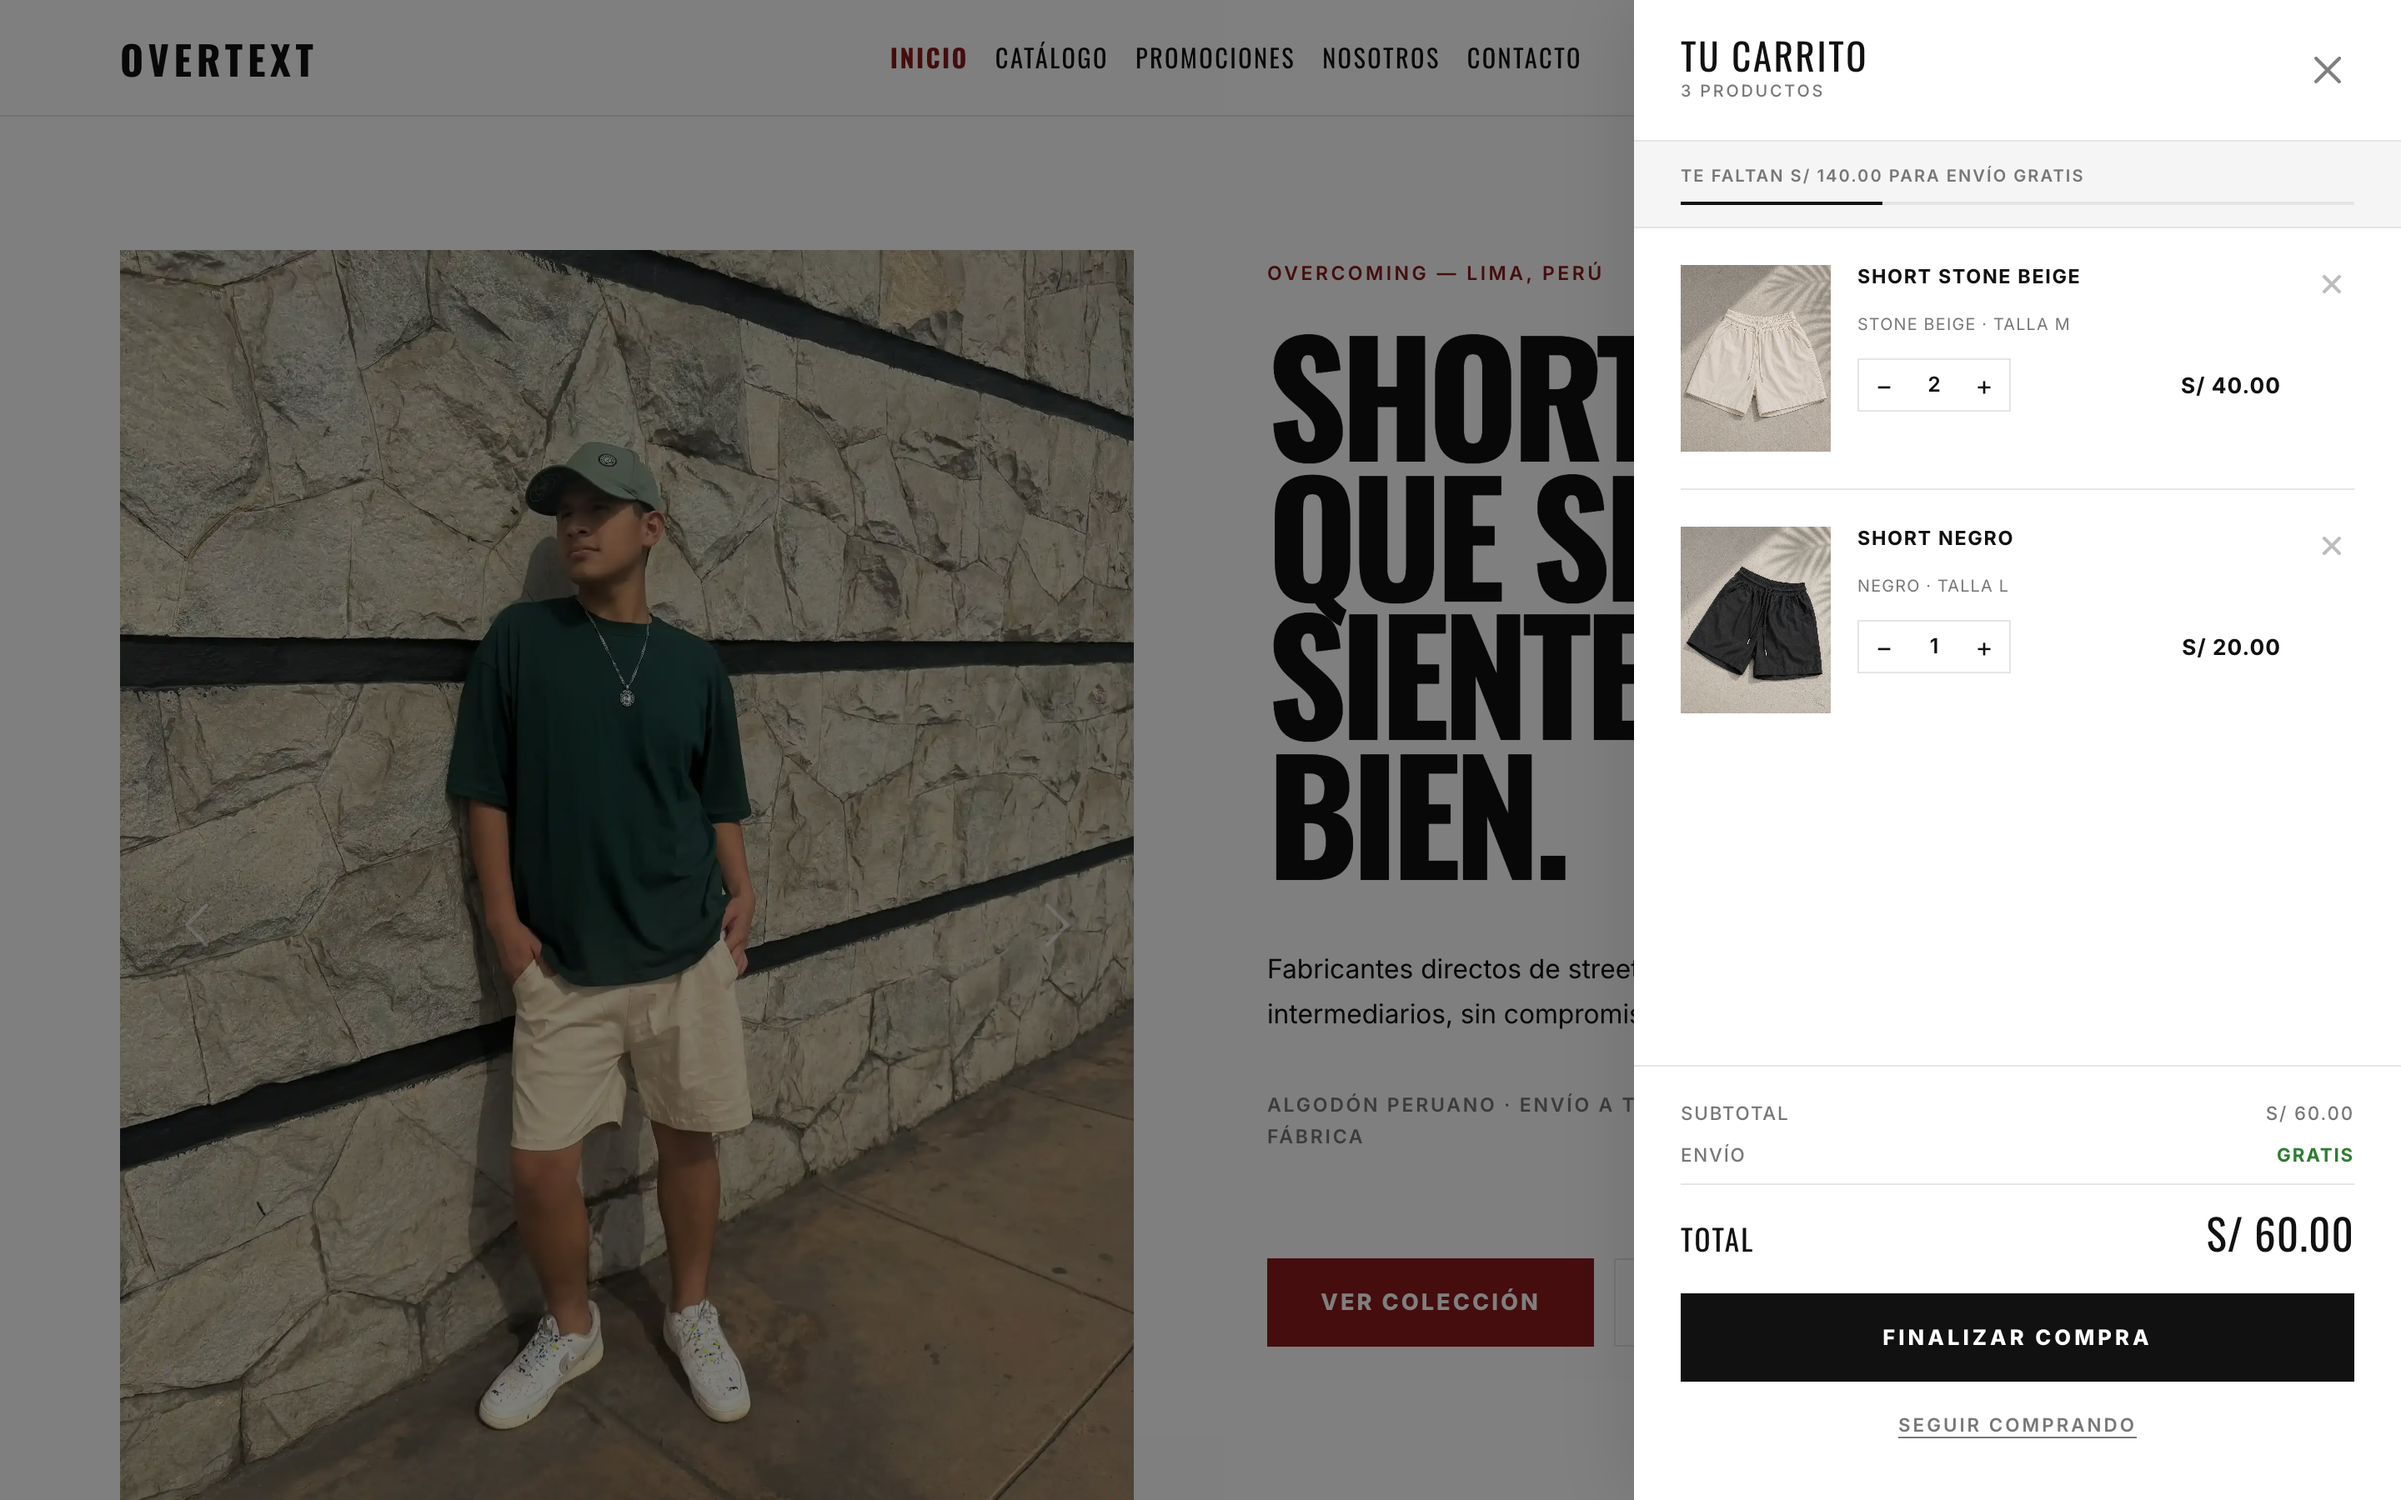
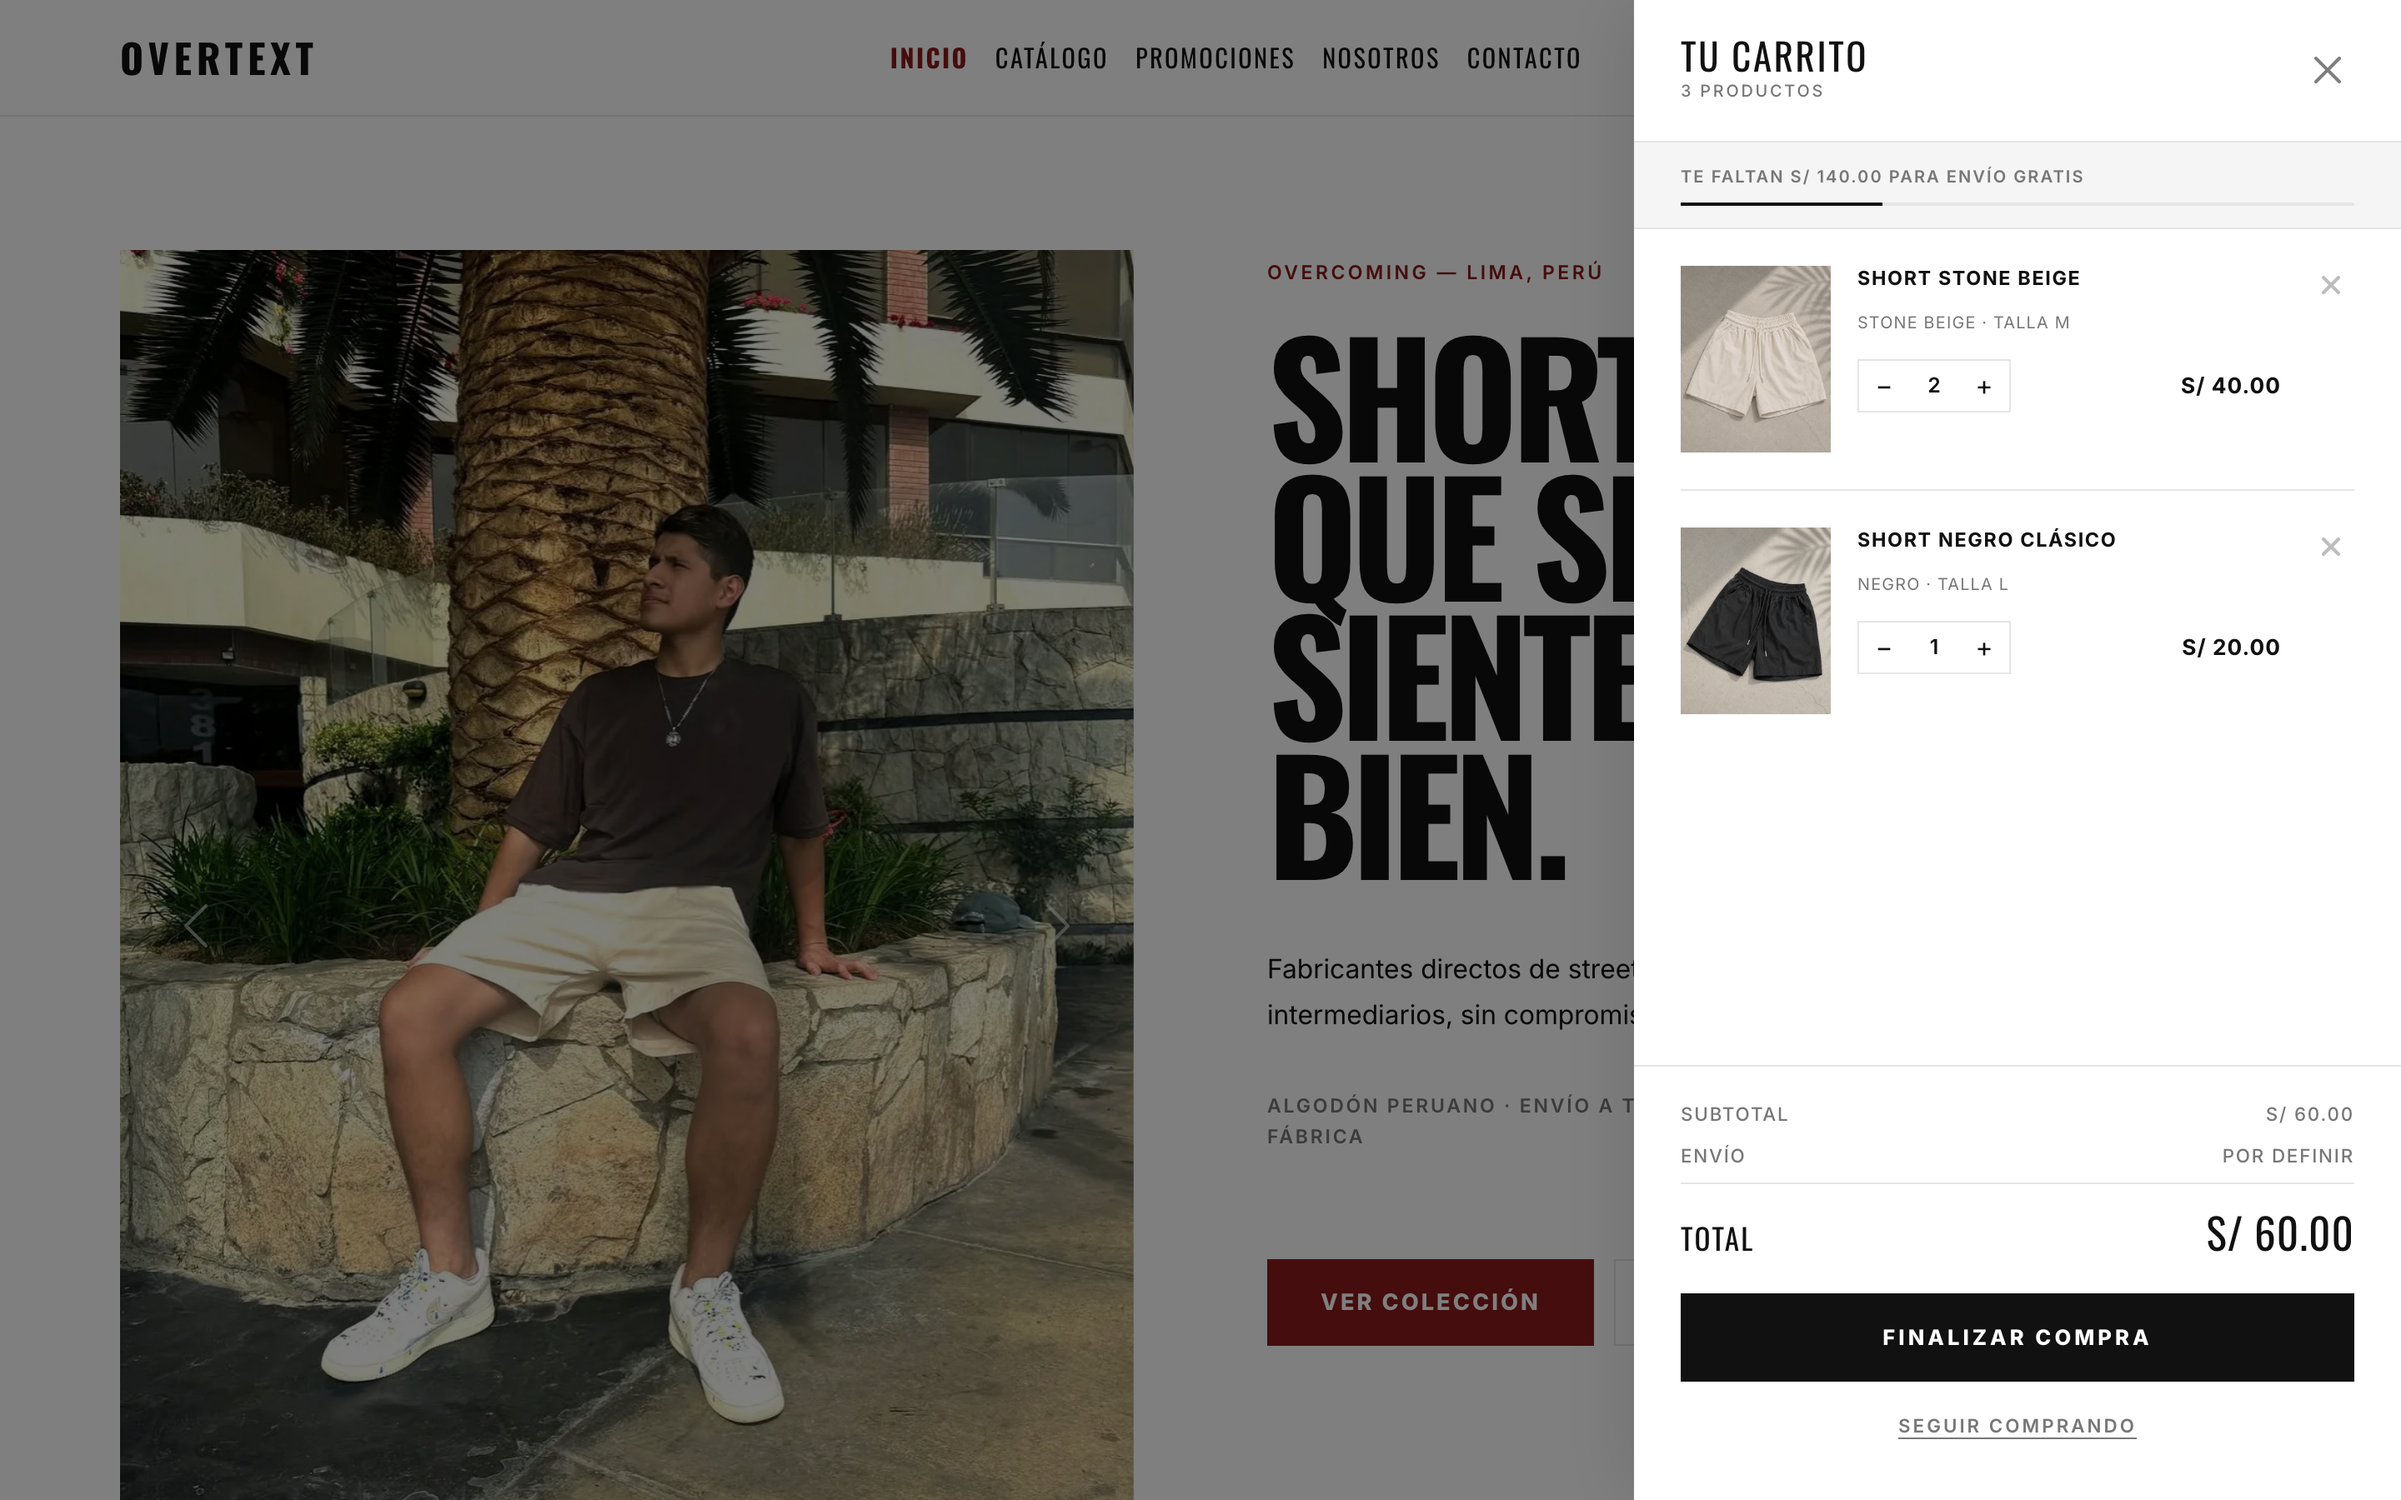
fix(carrito): cerrar D13 — la línea ENVÍO se deriva del umbral, no está quemada
El pie del panel decía "ENVÍO — GRATIS" siempre. El texto estaba escrito a
mano en el HTML de las 6 páginas con carrito y `renderizarCarrito()` no lo
tocaba, así que contradecía a la barra de progreso dos líneas más arriba:
"te faltan S/ 140 para envío gratis" junto a "el envío es gratis".

Es el mismo patrón que D4 — un dato de negocio duplicado a mano en vez de
derivarse de su única fuente (art. 7).

Ahora el `<span class="envio-gratis">` sale vacío del HTML y lo llena
`js/carrito.js` desde `UMBRAL_ENVIO_GRATIS`, el mismo valor que alimenta
la barra: **POR DEFINIR** por debajo de S/ 200 y **GRATIS** al alcanzarlo.
Sale vacío y no con un valor de relleno, por la misma razón que E1-15: un
importe escrito en el HTML parpadea antes de que el JS lo corrija.

El verde se separó a `.es-gratis`. `.envio-gratis` es el gancho fijo del
elemento y no debe significar "gratis conseguido"; es el mismo reparto que
ya hacía el checkout con `envio-gratis-tag`.

Verificado en los dos estados: S/ 60 → POR DEFINIR en gris; S/ 200 →
GRATIS en verde. Se retoman las dos capturas del offcanvas, que mostraban
el "GRATIS" viejo.

diff --git a/app-estatico/js/carrito.js b/app-estatico/js/carrito.js
@@ -133,13 +133,25 @@
             }
         }
 
-        // Totales del pie (envío se define al finalizar compra)
+        // Totales del pie (el costo exacto del envio se define al finalizar compra)
         var footer = panel.querySelector('.carrito-footer');
         if (footer) {
             var lineaSub = footer.querySelector('.resumen-linea span:last-child');
             if (lineaSub) lineaSub.textContent = formatoSoles(totales.subtotal);
             var monto = footer.querySelector('.total-monto');
             if (monto) monto.textContent = formatoSoles(totales.subtotal);
+
+            // El HTML traia "GRATIS" quemado y contradecia a la barra de arriba
+            // ("te faltan S/ 140"). Se deriva del mismo umbral, igual que el
+            // checkout, que muestra POR DEFINIR hasta saber el tipo de envio.
+            var envio = footer.querySelector('.envio-gratis');
+            if (envio) {
+                var gratis = totales.subtotal >= UMBRAL_ENVIO_GRATIS;
+                envio.textContent = gratis ? 'GRATIS' : 'POR DEFINIR';
+                // .envio-gratis es el gancho fijo del elemento; el verde lo pone
+                // .es-gratis, igual que .envio-gratis-tag en el checkout.
+                envio.classList.toggle('es-gratis', gratis);
+            }
         }
     }
 

diff --git a/app-estatico/catalogo.html b/app-estatico/catalogo.html
@@ -92,7 +92,7 @@
             </div>
             <div class="resumen-linea">
                 <span>ENVÍO</span>
-                <span class="envio-gratis">GRATIS</span>
+                <span class="envio-gratis"></span>
             </div>
             <div class="resumen-total">
                 <span class="total-label">TOTAL</span>

diff --git a/app-estatico/detalle-producto.html b/app-estatico/detalle-producto.html
@@ -93,7 +93,7 @@
             </div>
             <div class="resumen-linea">
                 <span>ENVÍO</span>
-                <span class="envio-gratis">GRATIS</span>
+                <span class="envio-gratis"></span>
             </div>
             <div class="resumen-total">
                 <span class="total-label">TOTAL</span>

diff --git a/app-estatico/index.html b/app-estatico/index.html
@@ -92,7 +92,7 @@
             </div>
             <div class="resumen-linea">
                 <span>ENVÍO</span>
-                <span class="envio-gratis">GRATIS</span>
+                <span class="envio-gratis"></span>
             </div>
             <div class="resumen-total">
                 <span class="total-label">TOTAL</span>

diff --git a/app-estatico/nosotros.html b/app-estatico/nosotros.html
@@ -92,7 +92,7 @@
             </div>
             <div class="resumen-linea">
                 <span>ENVÍO</span>
-                <span class="envio-gratis">GRATIS</span>
+                <span class="envio-gratis"></span>
             </div>
             <div class="resumen-total">
                 <span class="total-label">TOTAL</span>

diff --git a/app-estatico/promociones.html b/app-estatico/promociones.html
@@ -89,7 +89,7 @@
             </div>
             <div class="resumen-linea">
                 <span>ENVÍO</span>
-                <span class="envio-gratis">GRATIS</span>
+                <span class="envio-gratis"></span>
             </div>
             <div class="resumen-total">
                 <span class="total-label">TOTAL</span>

diff --git a/app-estatico/css/componentes/carrito.css b/app-estatico/css/componentes/carrito.css
@@ -271,7 +271,9 @@
     margin-bottom: 8px;
 }
 
-.resumen-linea .envio-gratis {
+/* El verde marca envio gratis conseguido; js/carrito.js pone .es-gratis solo
+   cuando el subtotal alcanza el umbral. Sin ella, la linea dice POR DEFINIR. */
+.resumen-linea .envio-gratis.es-gratis {
     font-weight: 700;
     color: #2e7d32;
 }

diff --git a/app-estatico/contacto.html b/app-estatico/contacto.html
@@ -90,7 +90,7 @@
           </div>
           <div class="resumen-linea">
               <span>ENVÍO</span>
-              <span class="envio-gratis">GRATIS</span>
+              <span class="envio-gratis"></span>
           </div>
           <div class="resumen-total">
               <span class="total-label">TOTAL</span>
